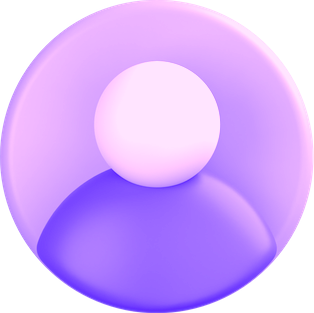
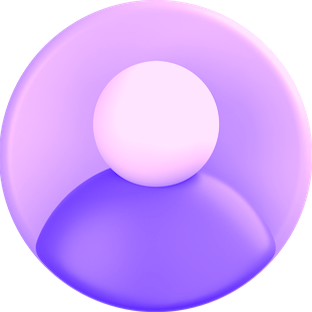
PUSH

diff --git a/src/app/app.component.html b/src/app/app.component.html
@@ -59,11 +59,13 @@
       style="height: 7.5vh; position: fixed; z-index: 50"
     >
       <div class="d-flex justify-content-start align-items-center h-100">
-        <img
-          class="my-1 mx-0 mx-md-4 h-100 py-2 py-md-3"
-          [src]="'assets/logo_light.png'"
-          style="object-fit: contain"
-        />
+        <div class="my-1 mx-0 mx-md-4 h-100 py-2 py-md-3">
+          <img
+            class="h-100 w-auto p-2 ms-2 ms-md-0"
+            [src]="'assets/logo_light.png'"
+            style="object-fit: contain"
+          />
+        </div>
         <div
           class="h-100 d-none d-md-flex justify-content-start align-items-center"
         >
@@ -100,12 +102,22 @@
               role="button"
               >Connect</span
             >
-            <img
-              class="rounded-circle h-100 p-1 bg-pink icons"
-              role="button"
-              style="aspect-ratio: 1"
-              [src]="'assets/profile.png'"
-            />
+            <div
+              class="rounded-circle h-100 icons bg-pink"
+              style="
+                border-style: solid;
+                border-width: 0.2rem;
+                border-color: rgb(255, 232, 248);
+                width: fit-content;
+              "
+            >
+              <img
+                class="h-100 p-0 m-auto rounded-circle"
+                role="button"
+                style="object-fit: contain; aspect-ratio: 1"
+                [src]="'assets/profile.png'"
+              />
+            </div>
           </div>
         </div>
 
@@ -173,7 +185,7 @@
         </div>
         <div class="text-light px-2 px-md-5">
           <div class="px-3 px-md-3 text-start py-4">
-            <hr>
+            <hr />
             <span class="mw-100" style="font-size: small">
               2021 - 2022 Thred Apps, Inc.
             </span>

diff --git a/src/app/search-bar/search-bar.component.scss b/src/app/search-bar/search-bar.component.scss
@@ -7,35 +7,23 @@ input.form-control:focus {
   -webkit-box-shadow: none;
 }
 
-.lds-ring {
-  display: inline-block;
-  position: relative;
-  height: 100%;
+.loader {
+  width: 60%;
+  height: 60%;
+  border: 2.5px solid #fff;
   background-color: #9c4aff;
-  aspect-ratio: 1;
-}
-.lds-ring div {
-  box-sizing: border-box;
-  display: block;
-  position: absolute;
-  height: 15px;
-  aspect-ratio: 1;
-  margin: 4.25px;
-  border: 2px solid #fff;
+  border-bottom-color: transparent;
   border-radius: 50%;
-  animation: lds-ring 1.2s cubic-bezier(0.5, 0, 0.5, 1) infinite;
-  border-color: #fff transparent transparent transparent;
+  display: inline-block;
+  box-sizing: border-box;
+  animation: rotate 1s linear infinite;
 }
-.lds-ring div:nth-child(1) {
-  animation-delay: -0.45s;
+
+.loading-btn {
+  background-color: #9c4aff;
 }
-.lds-ring div:nth-child(2) {
-  animation-delay: -0.3s;
-}
-.lds-ring div:nth-child(3) {
-  animation-delay: -0.15s;
-}
-@keyframes lds-ring {
+
+@keyframes rotate {
   0% {
     transform: rotate(0deg);
   }
@@ -48,8 +36,6 @@ input.form-control:focus {
   animation: search-button-anim 0.25s ease-in;
   animation-fill-mode: forwards;
 }
-
-
 
 @keyframes search-button-anim {
   0% {

diff --git a/src/app/search-bar/search-bar.component.html b/src/app/search-bar/search-bar.component.html
@@ -22,26 +22,16 @@
         *ngIf="!loading; else load"
         role="button"
         class="bg-purple text-white rounded-circle shadow d-flex justify-content-center align-items-center fw-bold"
-        style="font-size: 20px;"
+        style="font-size: 20px"
         (click)="search()"
         >keyboard_double_arrow_right</mat-icon
       >
       <ng-template #load>
         <div
-          class="my-0 h-100 p-0 d-flex justify-content-center align-items-center"
-          style="aspect-ratio: 1"
+          class="d-flex justify-content-center align-items-center loading-btn rounded-circle shadow search-button"
+          style="height: 24px; aspect-ratio: 1"
         >
-          <div
-            class="w-100 d-inline-flex justify-content-center align-items-center py-0 my-0"
-            style="height: 24px"
-          >
-            <div class="lds-ring rounded-circle shadow search-button">
-              <div></div>
-              <div></div>
-              <div></div>
-              <div></div>
-            </div>
-          </div>
+          <span class="loader"> </span>
         </div>
       </ng-template>
     </div>
